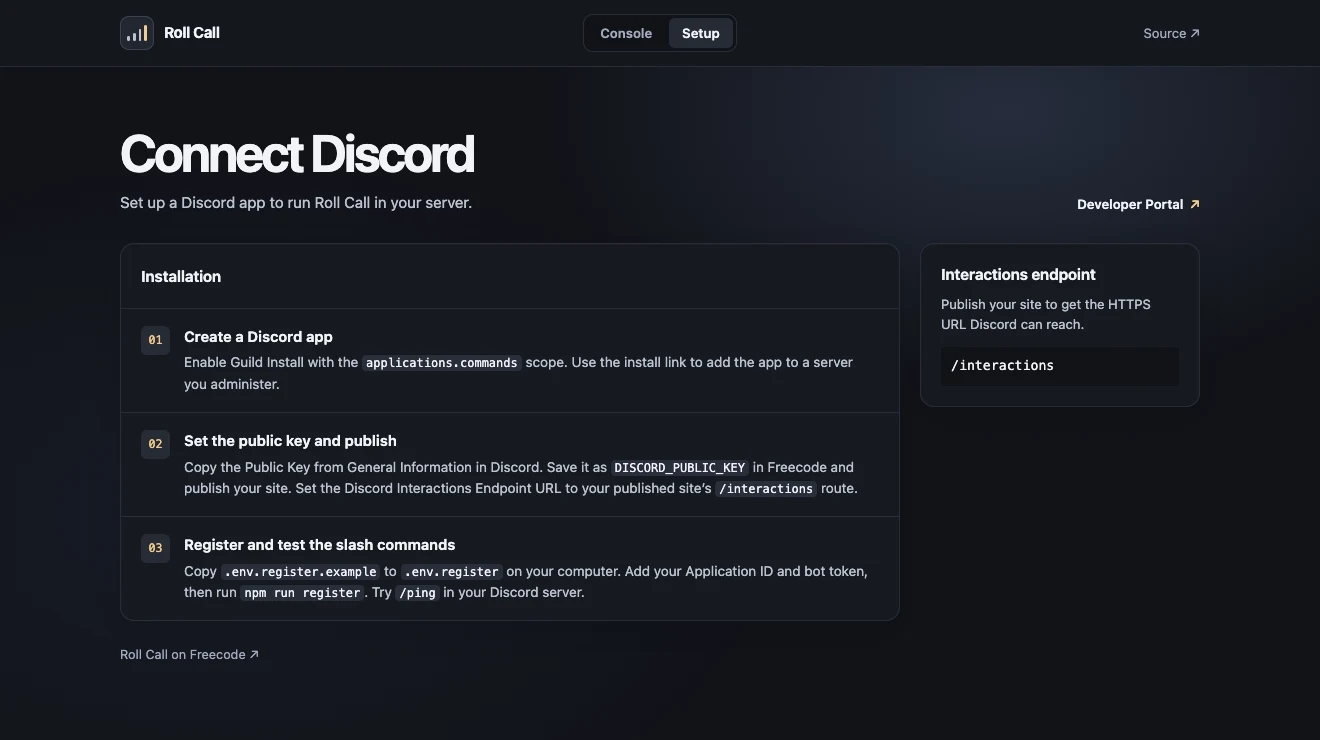
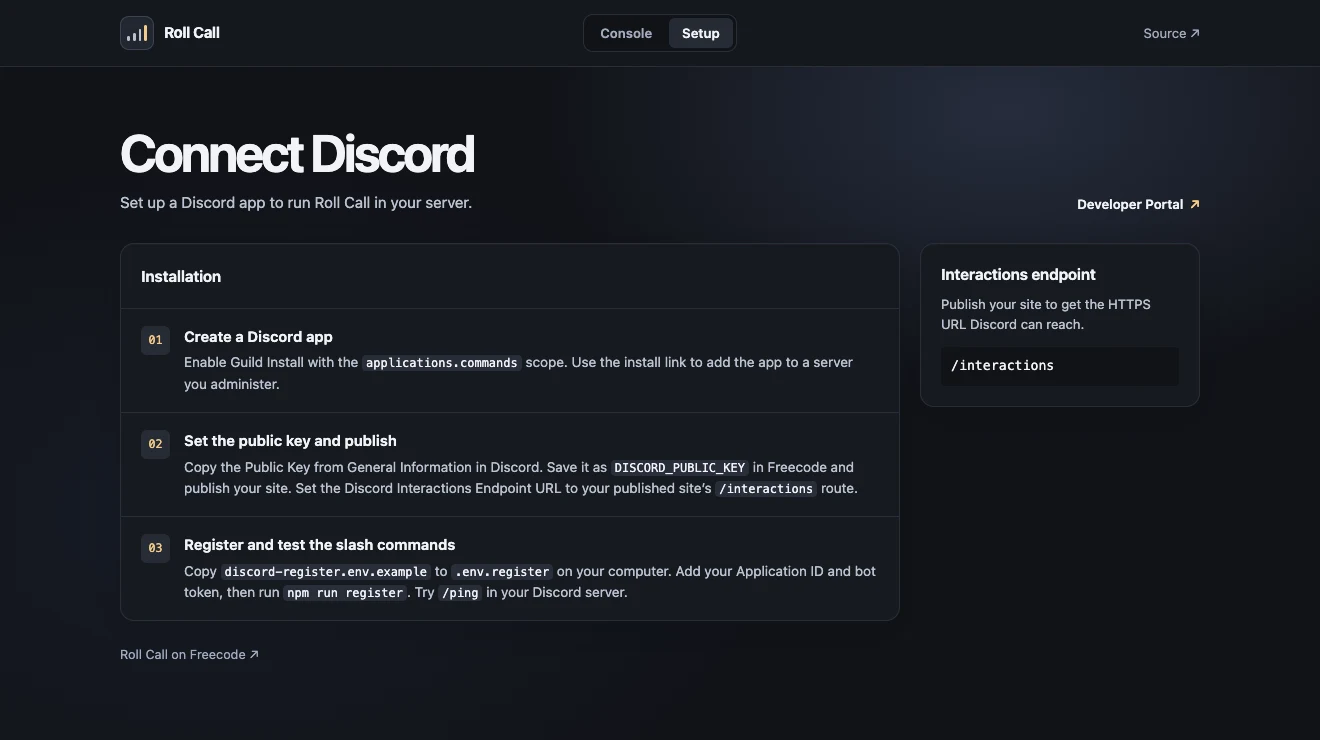
Keep the registration example in template copies

Changed region(s): [[0.1553, 0.7459, 0.6523, 0.8081]]

diff --git a/public/index.html b/public/index.html
@@ -75,7 +75,7 @@
           <ol class="steps">
             <li><div><h3>Create a Discord app</h3><p>Enable Guild Install with the <code>applications.commands</code> scope. Use the install link to add the app to a server you administer.</p></div></li>
             <li><div><h3>Set the public key and publish</h3><p>Copy the Public Key from General Information in Discord. Save it as <code>DISCORD_PUBLIC_KEY</code> in Freecode and publish your site. Set the Discord Interactions Endpoint URL to your published site’s <code>/interactions</code> route.</p></div></li>
-            <li><div><h3>Register and test the slash commands</h3><p>Copy <code>.env.register.example</code> to <code>.env.register</code> on your computer. Add your Application ID and bot token, then run <code>npm run register</code>. Try <code>/ping</code> in your Discord server.</p></div></li>
+            <li><div><h3>Register and test the slash commands</h3><p>Copy <code>discord-register.env.example</code> to <code>.env.register</code> on your computer. Add your Application ID and bot token, then run <code>npm run register</code>. Try <code>/ping</code> in your Discord server.</p></div></li>
           </ol>
         </section>
         <aside class="reference" aria-label="Endpoint">

diff --git a/README.md b/README.md
@@ -24,7 +24,7 @@ The site and command demo work without a Discord app. `npm run build` checks the
 1. Create a Discord app in the [Developer Portal](https://discord.com/developers/applications). In **Installation**, enable **Guild Install** with the `applications.commands` scope. Use its install link to add the app to a server you administer.
 2. Copy the **Public Key** from the app’s **General Information**. In Freecode, save it as `DISCORD_PUBLIC_KEY` for both environments in the setup card, then select **Publish** or **Update site**. For a first deploy with Wrangler, copy `.dev.vars.example` to `.dev.vars`, paste the key after `DISCORD_PUBLIC_KEY=`, and run `npm run deploy -- --secrets-file .dev.vars`.
 3. Set **Interactions Endpoint URL** to `https://<your-site>/interactions`. Discord will send a signed PING to verify the URL.
-4. Copy `.env.register.example` to `.env.register`, fill in your app ID and bot token locally, then run `npm run register`. Set `DISCORD_TEST_GUILD_ID` to register the commands immediately in a test server. The Worker itself does not need the bot token.
+4. Copy `discord-register.env.example` to `.env.register`, fill in your app ID and bot token locally, then run `npm run register`. Set `DISCORD_TEST_GUILD_ID` to register the commands immediately in a test server.
 5. Run `/ping` and `/check-in` in the Discord server.
 
 ## Make it yours
